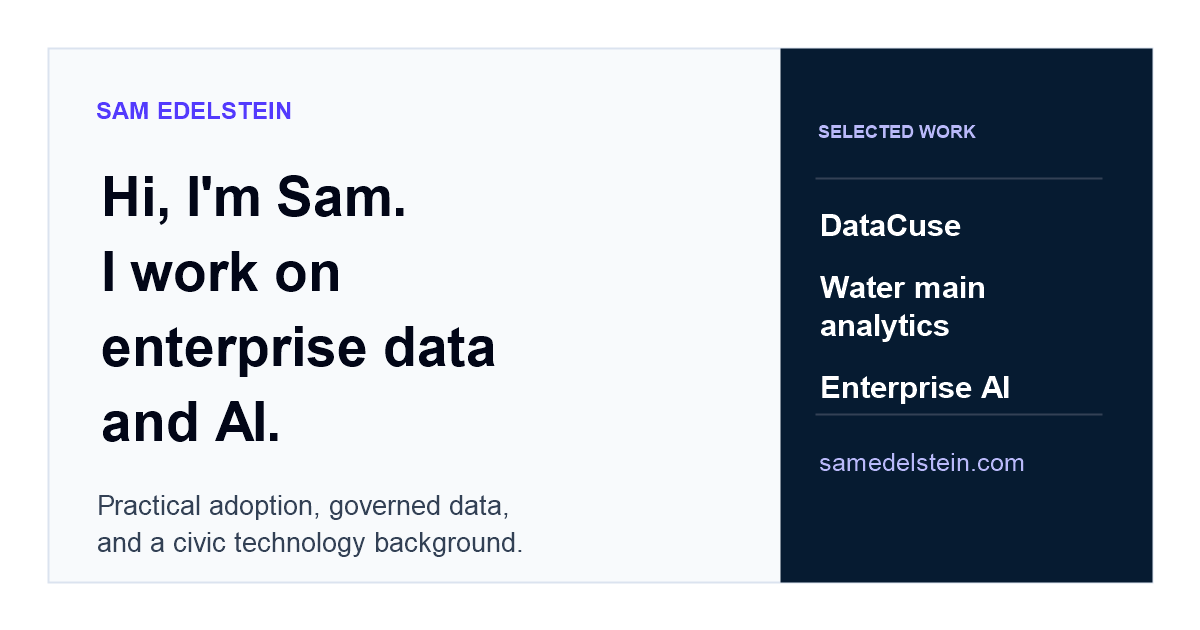
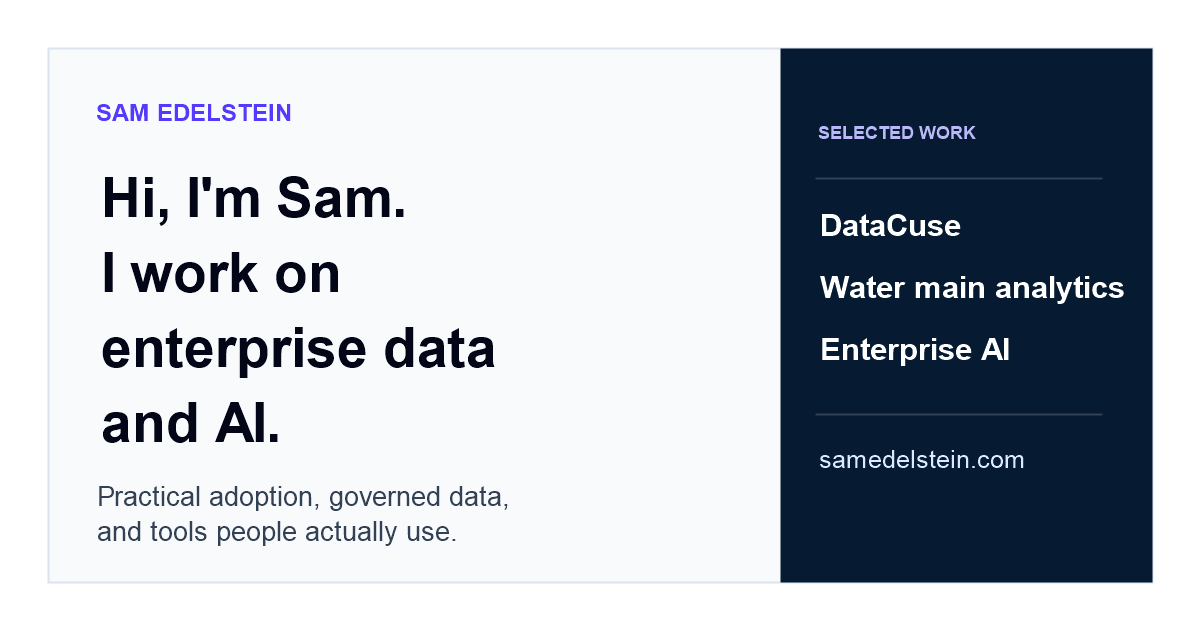
Update social preview positioning

diff --git a/site/public/executive-brief/index.html b/site/public/executive-brief/index.html
@@ -6,7 +6,7 @@
     <meta name="theme-color" content="#020617" />
     <meta
       name="description"
-      content="Brief for Sam Edelstein, enterprise Data & AI work, and civic technology background."
+      content="Brief for Sam Edelstein, enterprise Data & AI work, and public data background."
     />
     <link rel="canonical" href="https://samedelstein.com/executive-brief/" />
     <link rel="alternate" type="application/json" href="https://samedelstein.com/profile.json" />
@@ -23,7 +23,7 @@
     <meta name="twitter:title" content="Sam Edelstein | Brief" />
     <meta
       name="twitter:description"
-      content="Data & AI brief for practical adoption, governed data foundations, civic technology, and selected work."
+      content="Data & AI brief for practical adoption, governed data foundations, public data background, and selected work."
     />
     <meta name="twitter:image" content="https://samedelstein.com/social-card.png" />
     <meta name="twitter:image:alt" content="Sam Edelstein personal site preview for enterprise data and AI work." />
@@ -33,7 +33,7 @@
         "@type": "ProfilePage",
         "url": "https://samedelstein.com/executive-brief/",
         "name": "Sam Edelstein Brief",
-        "description": "Brief for enterprise Data and AI work across practical adoption, governed data foundations, civic technology, and selected work.",
+        "description": "Brief for enterprise Data and AI work across practical adoption, governed data foundations, public data background, and selected work.",
         "mainEntity": {
           "@type": "Person",
           "name": "Sam Edelstein",

diff --git a/site/public/about/index.html b/site/public/about/index.html
@@ -6,14 +6,14 @@
     <meta name="theme-color" content="#020617" />
     <meta
       name="description"
-      content="Current profile for Sam Edelstein, enterprise Data & AI work, and civic technology background."
+      content="Current profile for Sam Edelstein, enterprise Data & AI work, and public data background."
     />
     <link rel="canonical" href="https://samedelstein.com/about/" />
     <link rel="alternate" type="application/json" href="https://samedelstein.com/profile.json" />
     <meta property="og:title" content="Sam Edelstein | Data & AI" />
     <meta
       property="og:description"
-      content="Enterprise Data & AI work, governed data foundations, practical adoption, and civic technology background."
+      content="Enterprise Data & AI work, governed data foundations, practical adoption, and public data background."
     />
     <meta property="og:type" content="profile" />
     <meta property="og:url" content="https://samedelstein.com/about/" />
@@ -33,7 +33,7 @@
         "@type": "ProfilePage",
         "name": "Sam Edelstein | Data & AI",
         "url": "https://samedelstein.com/about/",
-        "description": "Current profile for Sam Edelstein, enterprise Data & AI work, and civic technology background.",
+        "description": "Current profile for Sam Edelstein, enterprise Data & AI work, and public data background.",
         "mainEntity": {
           "@type": "Person",
           "name": "Sam Edelstein",

diff --git a/site/public/proof/datacuse-open-data-platform/index.html b/site/public/proof/datacuse-open-data-platform/index.html
@@ -81,6 +81,6 @@
       <section><h2>Working themes</h2><ul><li>Data foundations: converted disconnected civic datasets into governed, findable public information.</li><li>Delivery platforms: created a reusable portal, intake process, and data dictionary.</li><li>Public data practice: paired transparency with standards that departments could keep using.</li></ul></section>
       <div class="actions"><a class="button primary" href="mailto:sam.i.edelstein@gmail.com?subject=Data%20%26%20AI%20conversation&amp;body=Hi%20Sam%2C%0A%0AI%27m%20reaching%20out%20after%20reviewing%20your%20DataCuse%20project%20note.%0A%0A">Email Sam</a><a class="button" href="/executive-brief/">Brief</a><a class="button" href="/sam-edelstein-resume.pdf">Resume PDF</a><a class="button" href="https://www.govtech.com/civic/whats-new-in-civic-tech-07272017.html">GovTech Coverage</a></div>
     </main>
-    <footer><div class="wrap">Sam Edelstein | Enterprise Data &amp; AI, governed data foundations, practical adoption, and civic technology background.</div></footer>
+    <footer><div class="wrap">Sam Edelstein | Enterprise Data &amp; AI, governed data foundations, practical adoption, and public data background.</div></footer>
   </body>
 </html>

diff --git a/site/public/proof/predictive-water-main-analytics/index.html b/site/public/proof/predictive-water-main-analytics/index.html
@@ -81,6 +81,6 @@
       <section><h2>Working themes</h2><ul><li>Applied analytics: translated research into a practical risk-scoring workflow.</li><li>Data foundations: combined asset, maintenance, and geospatial data into usable operational signals.</li><li>Civic infrastructure: supported proactive decisions for infrastructure prioritization.</li></ul></section>
       <div class="actions"><a class="button primary" href="mailto:sam.i.edelstein@gmail.com?subject=Applied%20analytics%20conversation&amp;body=Hi%20Sam%2C%0A%0AI%27m%20reaching%20out%20after%20reviewing%20your%20predictive%20water%20main%20analytics%20project%20note.%0A%0A">Email Sam</a><a class="button" href="/executive-brief/">Brief</a><a class="button" href="/sam-edelstein-resume.pdf">Resume PDF</a><a class="button" href="https://ar5iv.labs.arxiv.org/html/1805.03597">Read arXiv Paper</a></div>
     </main>
-    <footer><div class="wrap">Sam Edelstein | Enterprise Data &amp; AI, governed data foundations, practical adoption, and civic technology background.</div></footer>
+    <footer><div class="wrap">Sam Edelstein | Enterprise Data &amp; AI, governed data foundations, practical adoption, and public data background.</div></footer>
   </body>
 </html>

diff --git a/site/public/resume/index.html b/site/public/resume/index.html
@@ -6,7 +6,7 @@
     <meta name="theme-color" content="#020617" />
     <meta
       name="description"
-      content="Resume page for Sam Edelstein, focused on enterprise Data & AI work, practical adoption, governed data foundations, and civic technology background."
+      content="Resume page for Sam Edelstein, focused on enterprise Data & AI work, practical adoption, governed data foundations, and public data background."
     />
     <link rel="canonical" href="https://samedelstein.com/resume/" />
     <link rel="alternate" type="application/json" href="https://samedelstein.com/resume.json" />
@@ -34,7 +34,7 @@
         "@type": "ProfilePage",
         "name": "Sam Edelstein Resume",
         "url": "https://samedelstein.com/resume/",
-        "description": "Resume and background materials for Sam Edelstein, focused on enterprise Data & AI work, practical adoption, governed data foundations, and civic technology background.",
+        "description": "Resume and background materials for Sam Edelstein, focused on enterprise Data & AI work, practical adoption, governed data foundations, and public data background.",
         "mainEntity": {
           "@type": "Person",
           "name": "Sam Edelstein",

diff --git a/site/public/resume.html b/site/public/resume.html
@@ -5,7 +5,7 @@
     <meta name="viewport" content="width=device-width, initial-scale=1.0" />
     <meta
       name="description"
-      content="Resume for Sam Edelstein, focused on enterprise Data & AI work, practical adoption, governed data foundations, and civic technology background."
+      content="Resume for Sam Edelstein, focused on enterprise Data & AI work, practical adoption, governed data foundations, and public data background."
     />
     <meta name="robots" content="noindex,follow" />
     <meta http-equiv="refresh" content="0; url=/resume/" />
@@ -18,7 +18,7 @@
         "@type": "ProfilePage",
         "name": "Sam Edelstein Resume",
         "url": "https://samedelstein.com/resume/",
-        "description": "Resume and background materials for Sam Edelstein, focused on enterprise Data & AI work, practical adoption, governed data foundations, and civic technology background.",
+        "description": "Resume and background materials for Sam Edelstein, focused on enterprise Data & AI work, practical adoption, governed data foundations, and public data background.",
         "mainEntity": {
           "@type": "Person",
           "name": "Sam Edelstein",

diff --git a/site/public/proof/enterprise-ai-enablement-at-scale/index.html b/site/public/proof/enterprise-ai-enablement-at-scale/index.html
@@ -94,6 +94,6 @@
       <section><h2>Working themes</h2><ul><li>AI workflow design: translated ambition into delivery rhythms, ownership, and governance.</li><li>AI adoption: paired enablement with guardrails so usage could scale responsibly.</li><li>Practical delivery: connected AI work to repeatable workflows, adoption, and business value.</li></ul></section>
       <div class="actions"><a class="button primary" href="mailto:sam.i.edelstein@gmail.com?subject=Enterprise%20AI%20conversation&amp;body=Hi%20Sam%2C%0A%0AI%27m%20reaching%20out%20after%20reviewing%20your%20enterprise%20AI%20enablement%20project%20note.%0A%0A">Email Sam</a><a class="button" href="/executive-brief/">Brief</a><a class="button" href="/sam-edelstein-resume.pdf">Resume PDF</a></div>
     </main>
-    <footer><div class="wrap">Sam Edelstein | Enterprise Data &amp; AI, governed data foundations, practical adoption, and civic technology background.</div></footer>
+    <footer><div class="wrap">Sam Edelstein | Enterprise Data &amp; AI, governed data foundations, practical adoption, and public data background.</div></footer>
   </body>
 </html>

diff --git a/site/public/about.html b/site/public/about.html
@@ -5,7 +5,7 @@
     <meta name="viewport" content="width=device-width, initial-scale=1.0" />
     <meta
       name="description"
-      content="Current profile for Sam Edelstein, enterprise Data & AI work, and civic technology background."
+      content="Current profile for Sam Edelstein, enterprise Data & AI work, and public data background."
     />
     <meta name="robots" content="noindex,follow" />
     <meta http-equiv="refresh" content="0; url=/about/" />
